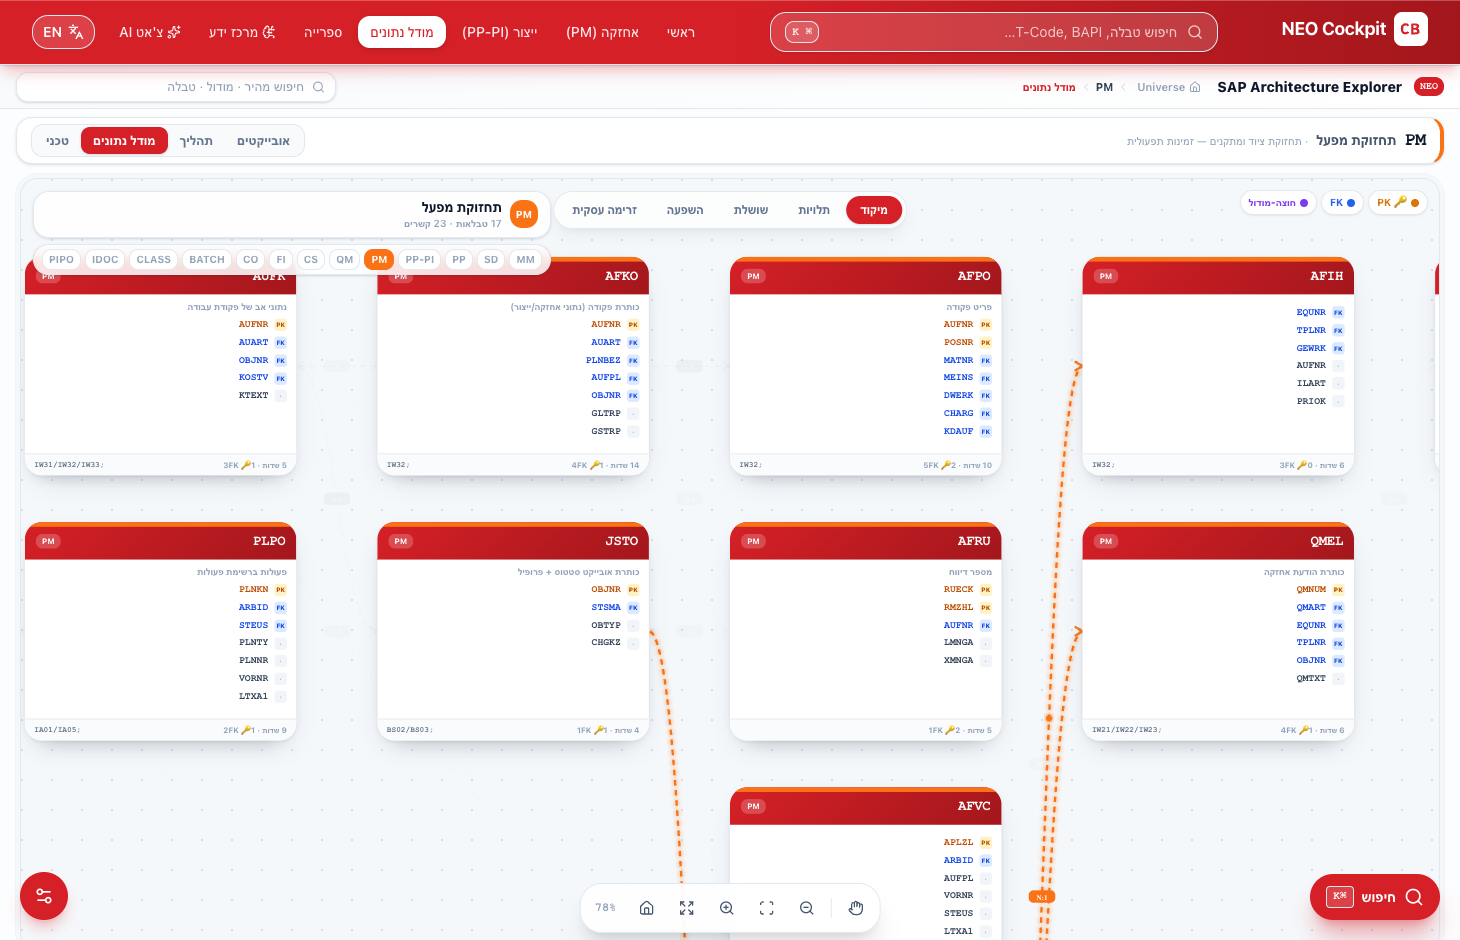
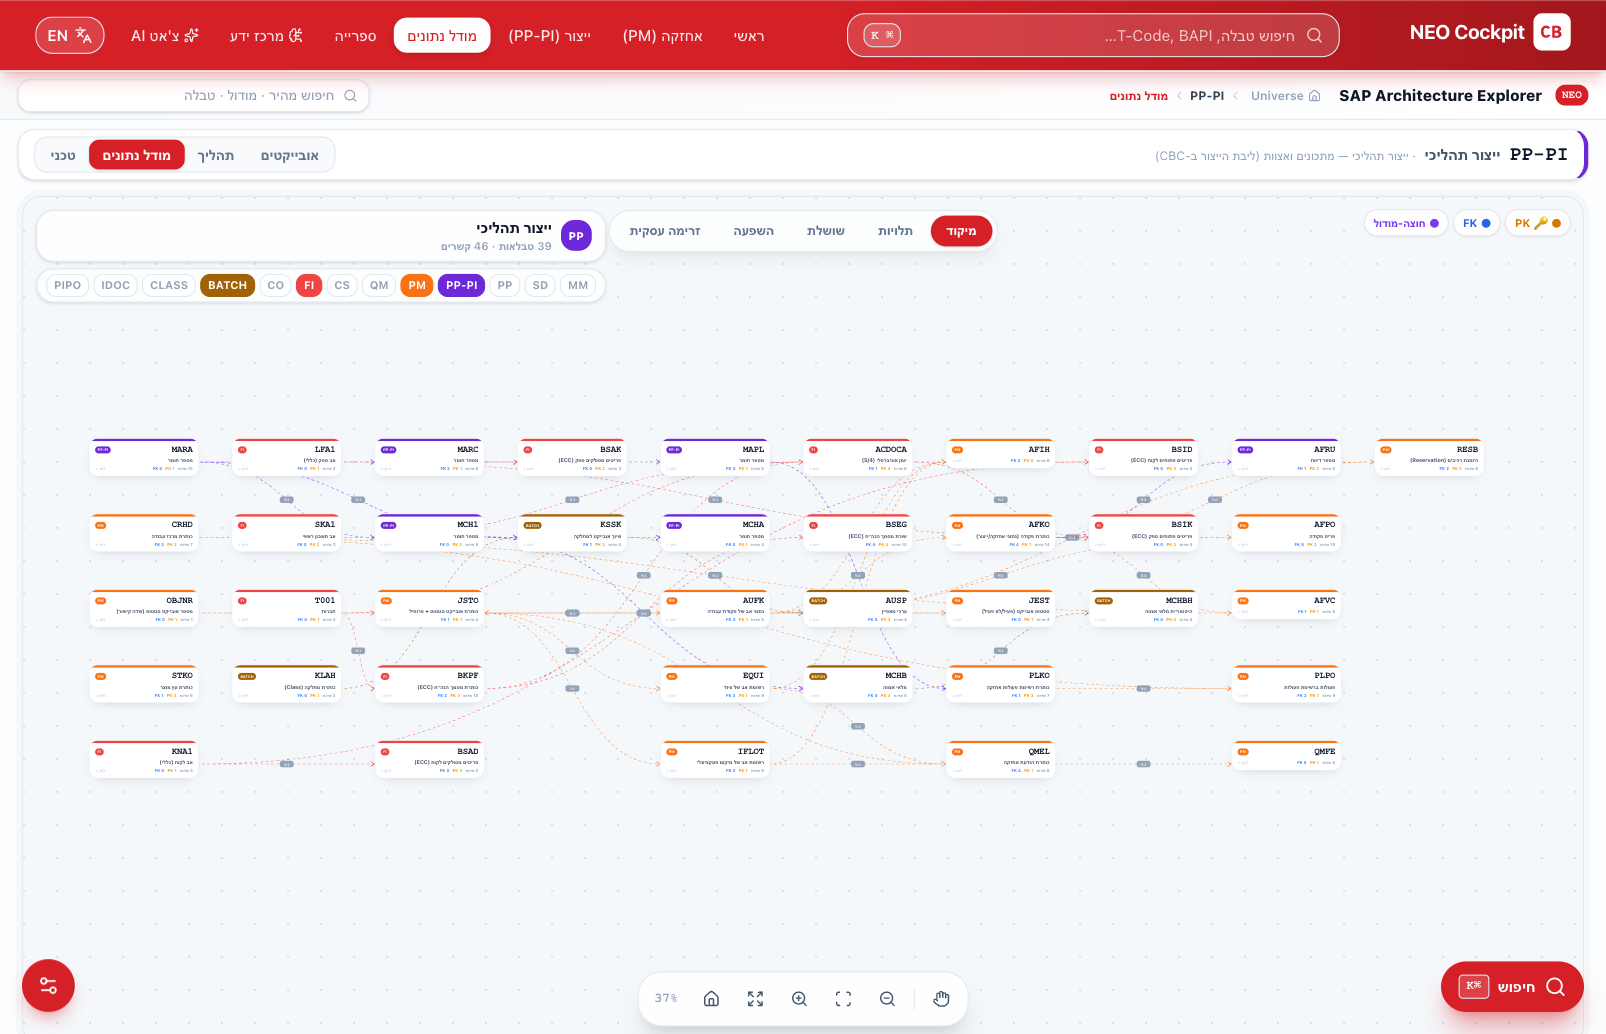
data-model: wide left→right packing (cap rows, wrap into columns)
Flow direction is left→right by FK dependency depth (masters → transactions →
status). Previously tall levels stacked many rows downward; now each level wraps
at MAXROWS=5 into additional columns, so the model spreads horizontally instead
of growing down — more tables fit on screen, far less vertical scroll, pro
proportions. fit-to-screen still frames the whole landscape.
Verified single + 39-table multi-module · 0 console errors · build clean.

diff --git a/app/sap-infrastructure/page.tsx b/app/sap-infrastructure/page.tsx
@@ -288,9 +288,19 @@ function Erd({ data, color, code, byName, focus, onField, onHome, onModule }: { 
     Object.values(byLevel).forEach((col) => col.sort((a, b) => (ord[owner[a.name]] - ord[owner[b.name]]) || a.name.localeCompare(b.name)));
     const p: Record<string, { x: number; y: number }> = {};
     const levels = Object.keys(byLevel).map(Number).sort((a, b) => a - b);
-    let maxRows = 1;
-    levels.forEach((L) => { byLevel[L].forEach((t, i) => { p[t.name] = { x: 64 + L * colW, y: 64 + i * rowH }; }); maxRows = Math.max(maxRows, byLevel[L].length); });
-    return { shown: sh, pos: p, own: owner, links: lk, vbW: 128 + levels.length * colW, vbH: 96 + maxRows * rowH, level: memo };
+    // wide left→right packing: keep dependency order (parents first) but wrap tall
+    // levels into extra columns so the model spreads horizontally, not just down.
+    const MAXROWS = 5;
+    let col = 0, row = 0, maxCols = 1;
+    levels.forEach((L) => {
+      if (row !== 0) { col++; row = 0; } // each dependency level starts a fresh column band
+      byLevel[L].forEach((t) => {
+        if (row >= MAXROWS) { col++; row = 0; }
+        p[t.name] = { x: 64 + col * colW, y: 64 + row * rowH }; row++;
+      });
+      maxCols = Math.max(maxCols, col + 1);
+    });
+    return { shown: sh, pos: p, own: owner, links: lk, vbW: 128 + maxCols * colW, vbH: 96 + MAXROWS * rowH, level: memo };
   }, [code, [...selMods].sort().join(",")]);
 
   const [sel, setSel] = useState<string | null>(focus && focus[0] ? focus[0] : null);
